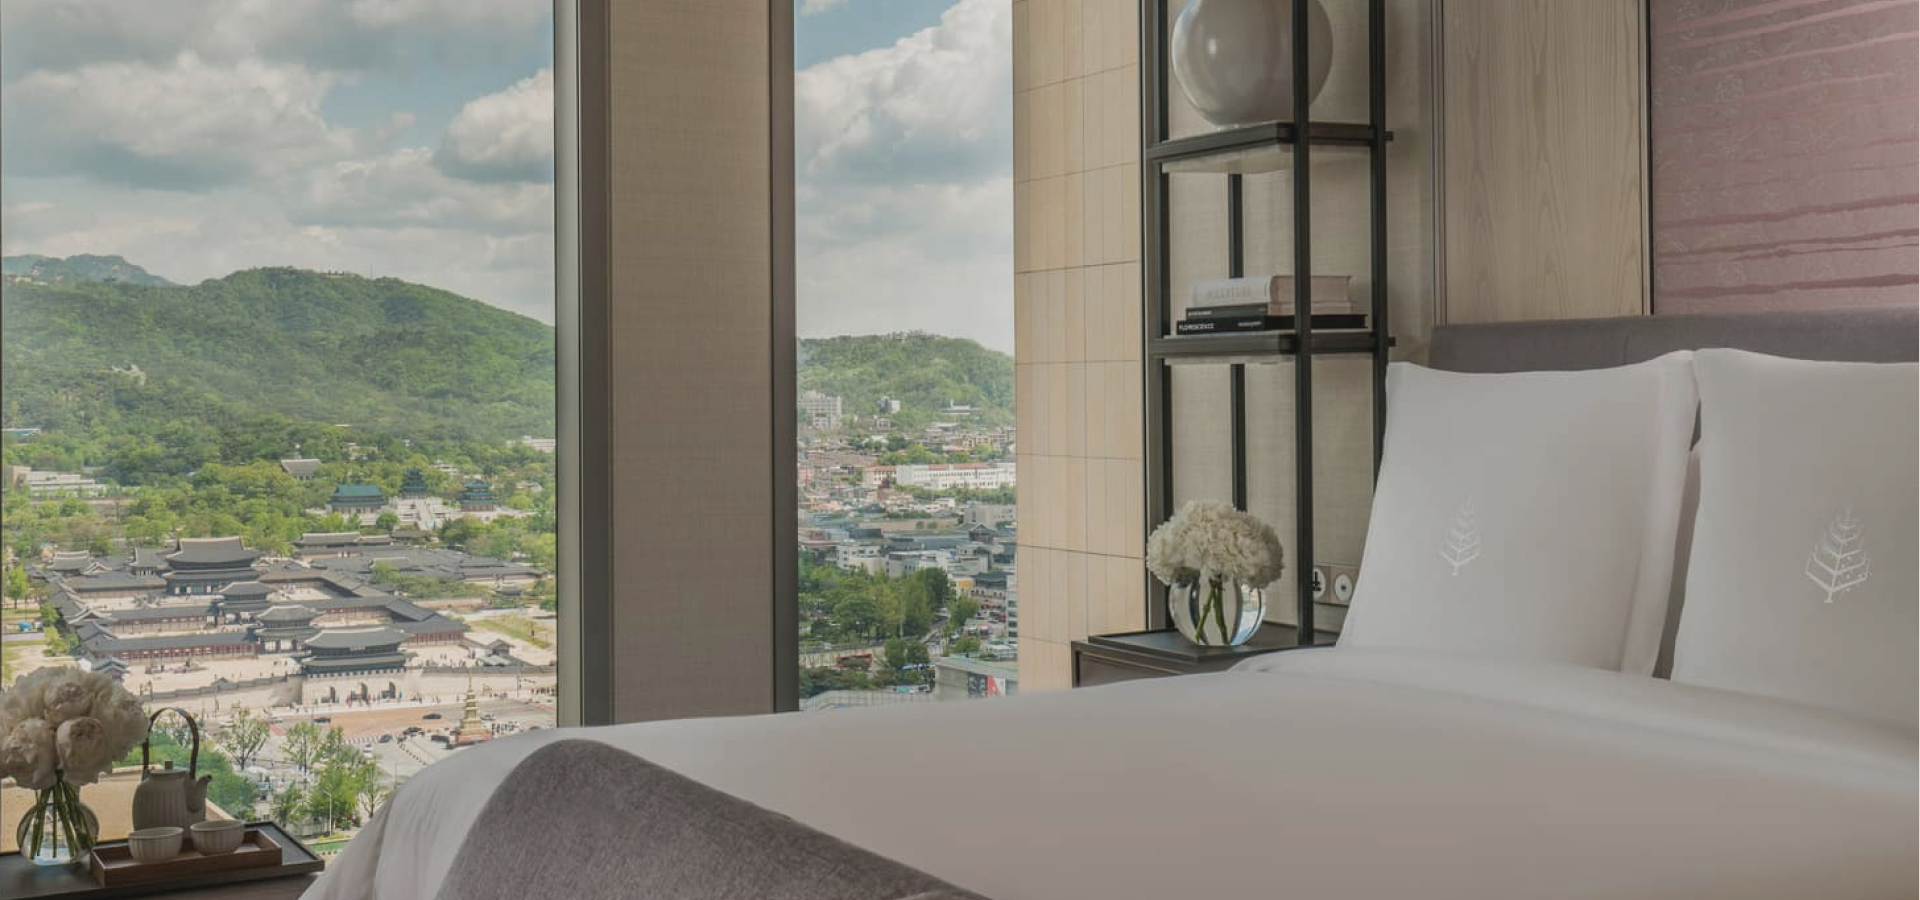
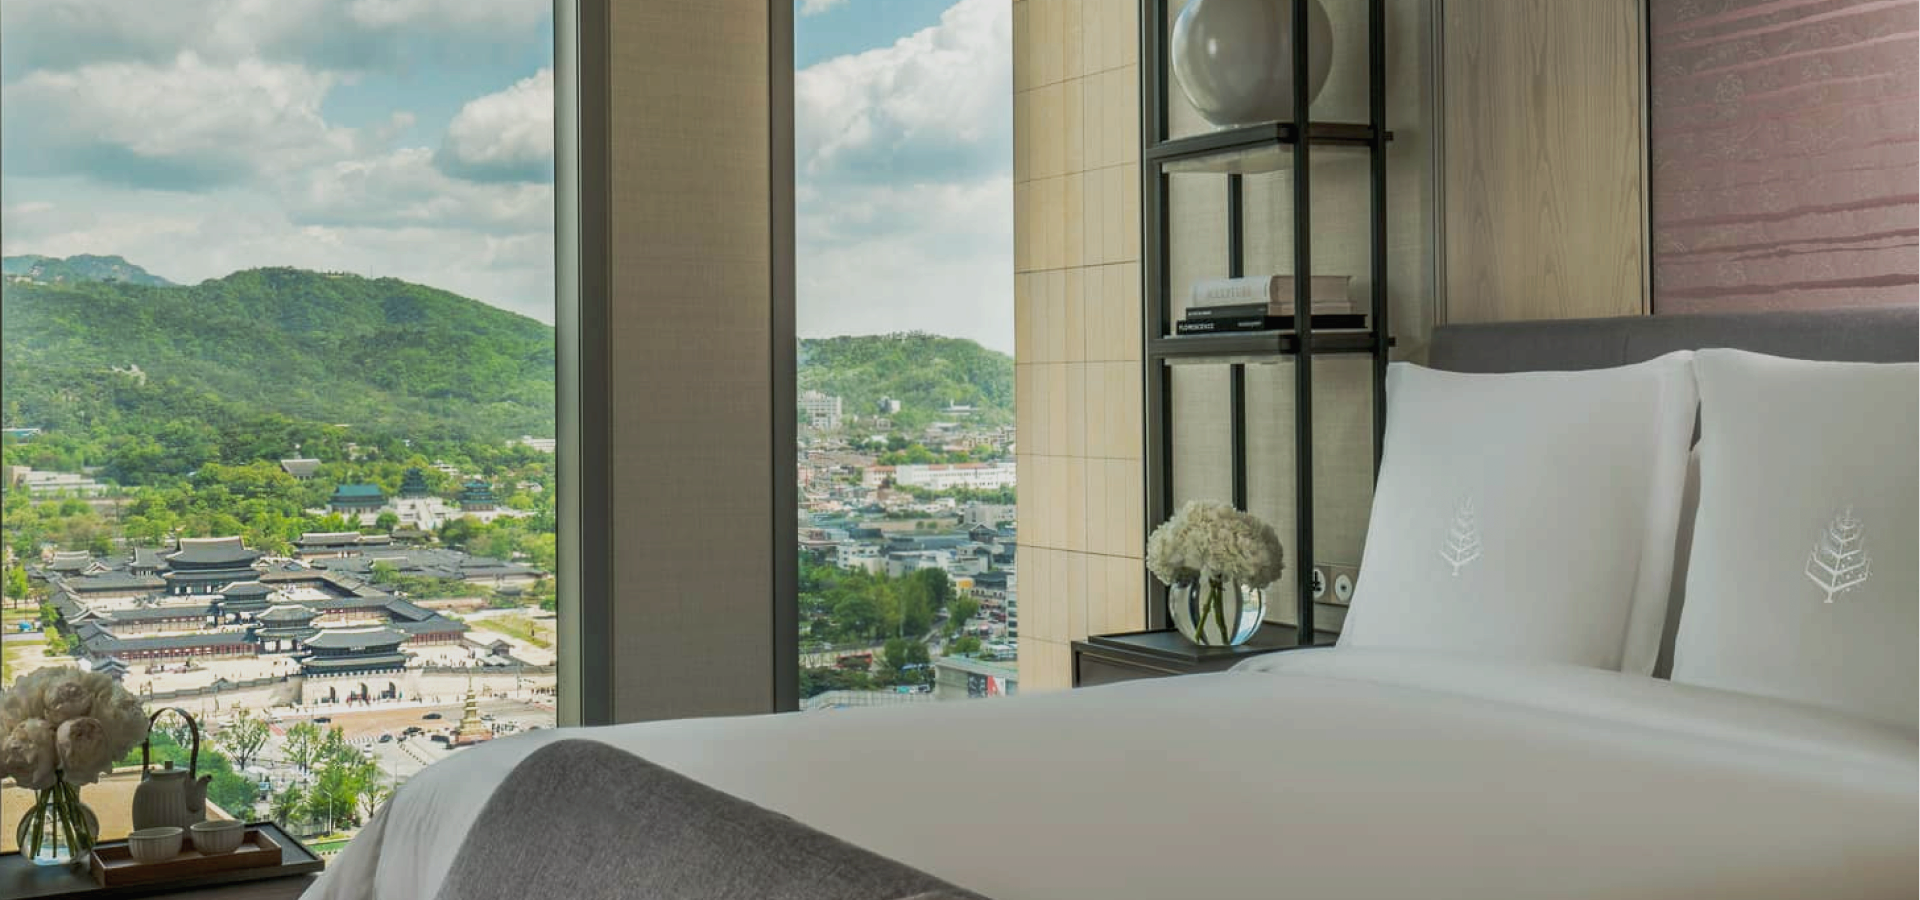
Add files via upload

Changed region(s): [[0.0625, 0.56, 0.2188, 0.8089], [0.1562, 0.84, 0.1875, 0.9022], [0.0, 0.6222, 0.0312, 0.6533]]

diff --git a/docs/index.html b/docs/index.html
@@ -87,7 +87,7 @@
          <div class="swiper-wrapper main_bg_section">
          <!-- Slides -->
            <div class="swiper-slide mobile_hidden"><img src="/img/main_bg.png" alt="처음"></div>
-           <div class="swiper-slide mobile_hidden"><img src="/img/test_bg3.png" alt="세번째"></div>
+           <div class="swiper-slide mobile_hidden"><img src="/img/main_bg2.png" alt="세번째"></div>
            <div class="swiper-slide mobile_view"><img src="/img/main_mobile_bg1.png" alt="모바일 이미지1"></div>
            <div class="swiper-slide mobile_view"><img src="/img/main_mobile_bg2.png" alt="모바일 이미지2"></div>
 
@@ -141,6 +141,7 @@
         </div>
       </div>  
       <div class="wapper">
+       <!--
         <section class="promotion_section con">
             <div class="title_section">
                 <div class="title">PROMOTION</div>
@@ -182,6 +183,7 @@
                 </div>
             </div>
         </section>
+          
         <section class="dining_section con">
             <div class="title_section">
                 <div class="title">DINING & BAR</div>
@@ -195,7 +197,7 @@
                     <img src="/img/charles.png" alt="찰스 H">
                     <div class="desc_title">CHARLES . H</div>
                 </div>
-                <div class="item item_">
+                <div class="item item_3">
                   <img src="/img/akira.png" alt="아카리백">
                   <div class="desc_title">AKIRA BAG</div>
               </div>
@@ -206,6 +208,99 @@
                 </div>
             </div>
         </section>
+        -->
+        <section class="promotion_section con">
+          <div class="title_section">
+              <div class="title">PROMOTION</div>
+              <a class="bt_section mobile_hidden" href="#">MORE VIEW</a>
+          </div>
+          <div class="content">
+            <div class="swiper promotion_Swiper">
+              <div class="swiper-wrapper content">
+                <div class="swiper-slide">
+                  <div class="item item_1">
+                    <img src="/img/promotion_1.png" alt="키즈패키지 사진">
+                    <div class="desc">
+                        <div class="desc_title">Family Festive Fun</div>
+                        <span>키즈 패키지와 함께 잊지 못할 하루를 완성해보세요.</span>
+                        <span>2022.01.01 - 2022.01.01</span>
+                    </div>
+                    <div class="book_bt">
+                        <a href="#">예약하기</a>
+                    </div>
+                </div>
+               
+                </div>
+                <div class="swiper-slide ">
+                  <div class="item item_2">
+                    <img src="/img/promotion_2.png" alt="강아지 패키지 사진">
+                    <div class="desc">
+                        <div class="desc_title">Mong-Friendly</div>
+                        <span>호텔의 품격 있는 서비스로 도심 속 펫캉스를 즐겨보세요.</span>
+                        <span>2022.01.01 - 2022.01.01</span>
+                    </div>
+                    <div class="book_bt">
+                        <a href="#">예약하기</a>
+                    </div>
+                </div>
+              
+                </div>
+                <div class="swiper-slide ">
+                 
+                  <div class="item item_3">
+                    <img src="/img/promotion_3.png" alt="조식 사진">
+                    <div class="desc">
+                        <div class="desc_title">BED AND BREAKFAST</div>
+                        <span>시그니처 포시즌스 조식으로 하루를 시작해 보세요.</span>
+                        <span>2022.01.01 - 2022.01.01</span>
+                    </div>
+                    <div class="book_bt">
+                        <a href="#">예약하기</a>
+                    </div>
+                </div>
+                  
+                </div>
+              </div>
+            </div>   
+          </div>
+      </section>
+           
+        <section class="dining_section con">
+    <div class="title_section">
+      <div class="title">DINING & BAR</div>
+    
+        <div class="swiper dining_Swiper">
+          <div class="swiper-wrapper content">
+            <div class="swiper-slide item item_1">
+                <img src="/img/yuyuan_bg.png" alt="">
+                <div class="desc_title">YU YUAN</div>
+           
+            </div>
+            <div class="swiper-slide item item_2">
+                <img src="/img/charles.png" alt="">
+                <div class="desc_title">CHARLES . H</div>
+          
+            </div>
+            <div class="swiper-slide item item_3">
+             
+                <img src="/img/akira.png" alt="">
+                <div class="desc_title">AKIRA BAG</div>
+              
+            </div>
+          </div>
+          <div class="swiper-scrollbar mobile_view"></div>
+        </div>
+        
+  
+  
+      <div class="desc"><span class="mobile_hidden">현지 각 지역에서 그때 그때 생산, 수확한 제철 식재료를 중요시하며 모든 고객에게 더 좋은 기억을 전합니다. </span>눈과 입이 모두 즐거운 메뉴들을 포시즌스 호텔 서울에서 만나보세요.</div>
+      <div class="book_bt">
+        <a href="#">예약하기</a>
+      </div>
+    </div>
+        </section>
+
+
         <section class="facilities_section con">
             <div class="title ">FACILITIES</div>
             <div class="content">
@@ -246,7 +341,7 @@
                         
                             </div>
                       
-                            <div class="swiper-pagination mobile_hidden"></div>
+                  
                           </div>
                       
                     </div>
@@ -292,9 +387,6 @@
 
   <!-- 오퍼 모바일 슬라이드 연습 -->
 
-
-
-   
 
 
 

diff --git a/docs/swiper.js b/docs/swiper.js
@@ -1,3 +1,19 @@
+function TopBar__init() {
+  $(window).scroll(function() {
+    let scrollTop = $(window).scrollTop();
+
+    if ( scrollTop == 0 ) {
+      $('header').removeClass('hover');
+    }
+    else {
+      $('header').addClass('hover');
+    }
+  });
+}
+
+TopBar__init();
+
+
 
 /* 메인메뉴 스와이퍼 */
 var swiper = new Swiper(".main_bg_swiper", {
@@ -16,34 +32,15 @@ var swiper = new Swiper(".main_bg_swiper", {
 
 
 
-/* 다이닝 스와이퍼 */
-  var tab = new Swiper(".tab-content", {
-     slidesPerView: 1,
-     autoHeight: true,
-     spaceBetween: 30,
 
-  
-    thumbs: {
-      swiper: {
-        el: ".tab-menu",
-        slidesPerView:'auto',
-        spaceBetween: 50
-      }
-    }
-
-  
-  });
 
 
 /* 편의생활 스와이퍼 */
   function SwiperBox1__init() {
     const swiper = new Swiper('.swiper-box-1 .swiper', {
       loop: true,
-      autoHeight: true,
-     
       pagination: {
         el: ".swiper-box-1 .swiper-pagination",
-        clickable: true,
       },
       breakpoints: {
         // 화면의 넓이가 320px 이상일 때
@@ -77,20 +74,45 @@ var swiper = new Swiper(".main_bg_swiper", {
 
 
 
-  console.clear();
 
-  function TopBar__init() {
-    $(window).scroll(function() {
-      let scrollTop = $(window).scrollTop();
-  
-      if ( scrollTop == 0 ) {
-        $('header').removeClass('hover');
-      }
-      else {
-        $('header').addClass('hover');
-      }
-    });
-  }
-  
-  TopBar__init();
+ 
+var swiper = new Swiper(".promotion_Swiper ", {
+  slidesPerView: 1,
+  spaceBetween: 10,
+  pagination: {
+    el: ".swiper-pagination",
+    clickable: true,
+  },
+  breakpoints: {
+    320: {
+      slidesPerView: 1.1,
+      spaceBetween: 20,
+    },
+    800: {
+      slidesPerView: 3,
+      spaceBetween: 30,
+    },
+    
+  },
+});
 
+
+var swiper = new Swiper(".dining_Swiper ", {
+  slidesPerView: 1,
+  spaceBetween: 10,
+  pagination: {
+    el: ".swiper-pagination",
+    clickable: true,
+  },
+  breakpoints: {
+    320: {
+      slidesPerView: 1,
+      spaceBetween: 20,
+    },
+    800: {
+      slidesPerView: 3,
+      spaceBetween: 30,
+    },
+    
+  },
+});

diff --git a/docs/common.css b/docs/common.css
@@ -92,14 +92,14 @@ header.hover {
   justify-content: center;
   color: #fff;
   position: absolute;
-  top: 20vw;
+  top: 19vw;
   left: 8.333vw;
   z-index: 10;
 }
 
 
 .main_section .main_title_section .main_title {
-   font-size: 3rem;
+   font-size: 4rem;
    line-height: 100%;
    letter-spacing: 4%;
    text-align: center;
@@ -298,14 +298,14 @@ header.hover {
  }
 
 .promotion_section {
-  /* padding-bottom: 14vw; */
-  /* 200px */
+   padding-bottom: 7vw; 
+  
 
 }
 
 .promotion_section .content {
     display: flex;
-    gap:30px;
+ 
 }
 
 
@@ -318,11 +318,12 @@ header.hover {
  .dining_section{
   text-align: center;
   padding-bottom: 102px;
+  
  }
 
 .dining_section .content {
     display: flex;
-    gap:30px;
+   
 }
 
 .dining_section .title {
@@ -355,13 +356,33 @@ header.hover {
   top:90%;
   /* 416px */
   left: 4%;
-  font-size: 1.25vw;
+  font-size: 1.5rem;
   font-weight: 600;
   color:#fff;
 } 
 
 
-  
+.swiper-horizontal>.swiper-scrollbar {
+  position: relative;
+  top:-34px;
+  left: 200px;
+  border-radius: 0;
+  z-index: 50;
+  height: 3px;
+  width: 50%;
+  background-color:#fff;
+}
+
+.swiper-scrollbar-drag {
+  height: 100%;
+  width: 100%;
+  position: relative;
+  background: #232323;
+  border-radius: 0;
+  left: 0;
+  top: 0;
+}
+
 
 
 .facilities_section {

diff --git a/docs/mobile.css b/docs/mobile.css
@@ -86,16 +86,6 @@
         margin-left: 0;
      }
      
-
-     .dining_section .content {
-        display: flex;
-        gap:10px;
-    }
-    
-    .promotion_section .content .item img {
-        width: 80vw;
-    }
-    
  
     .dining_section .title_section >.desc {
         width: 68%;
@@ -104,22 +94,19 @@
         padding: 20px 0 28px 0;
         margin: 0;
         font-size: 1rem;
-      
-
       }
 
-      .dining_section .content .item > .desc_title {
-        top:80%;
-      } 
-
-
+      .dining_section .content {
+        gap:0px;
+    }
+    
       .facilities_section .desc {
         width: 96%;
         padding: 20px 0 0 0;
         font-size: 1rem;
-     
-
        } 
+
+
 
 
 
